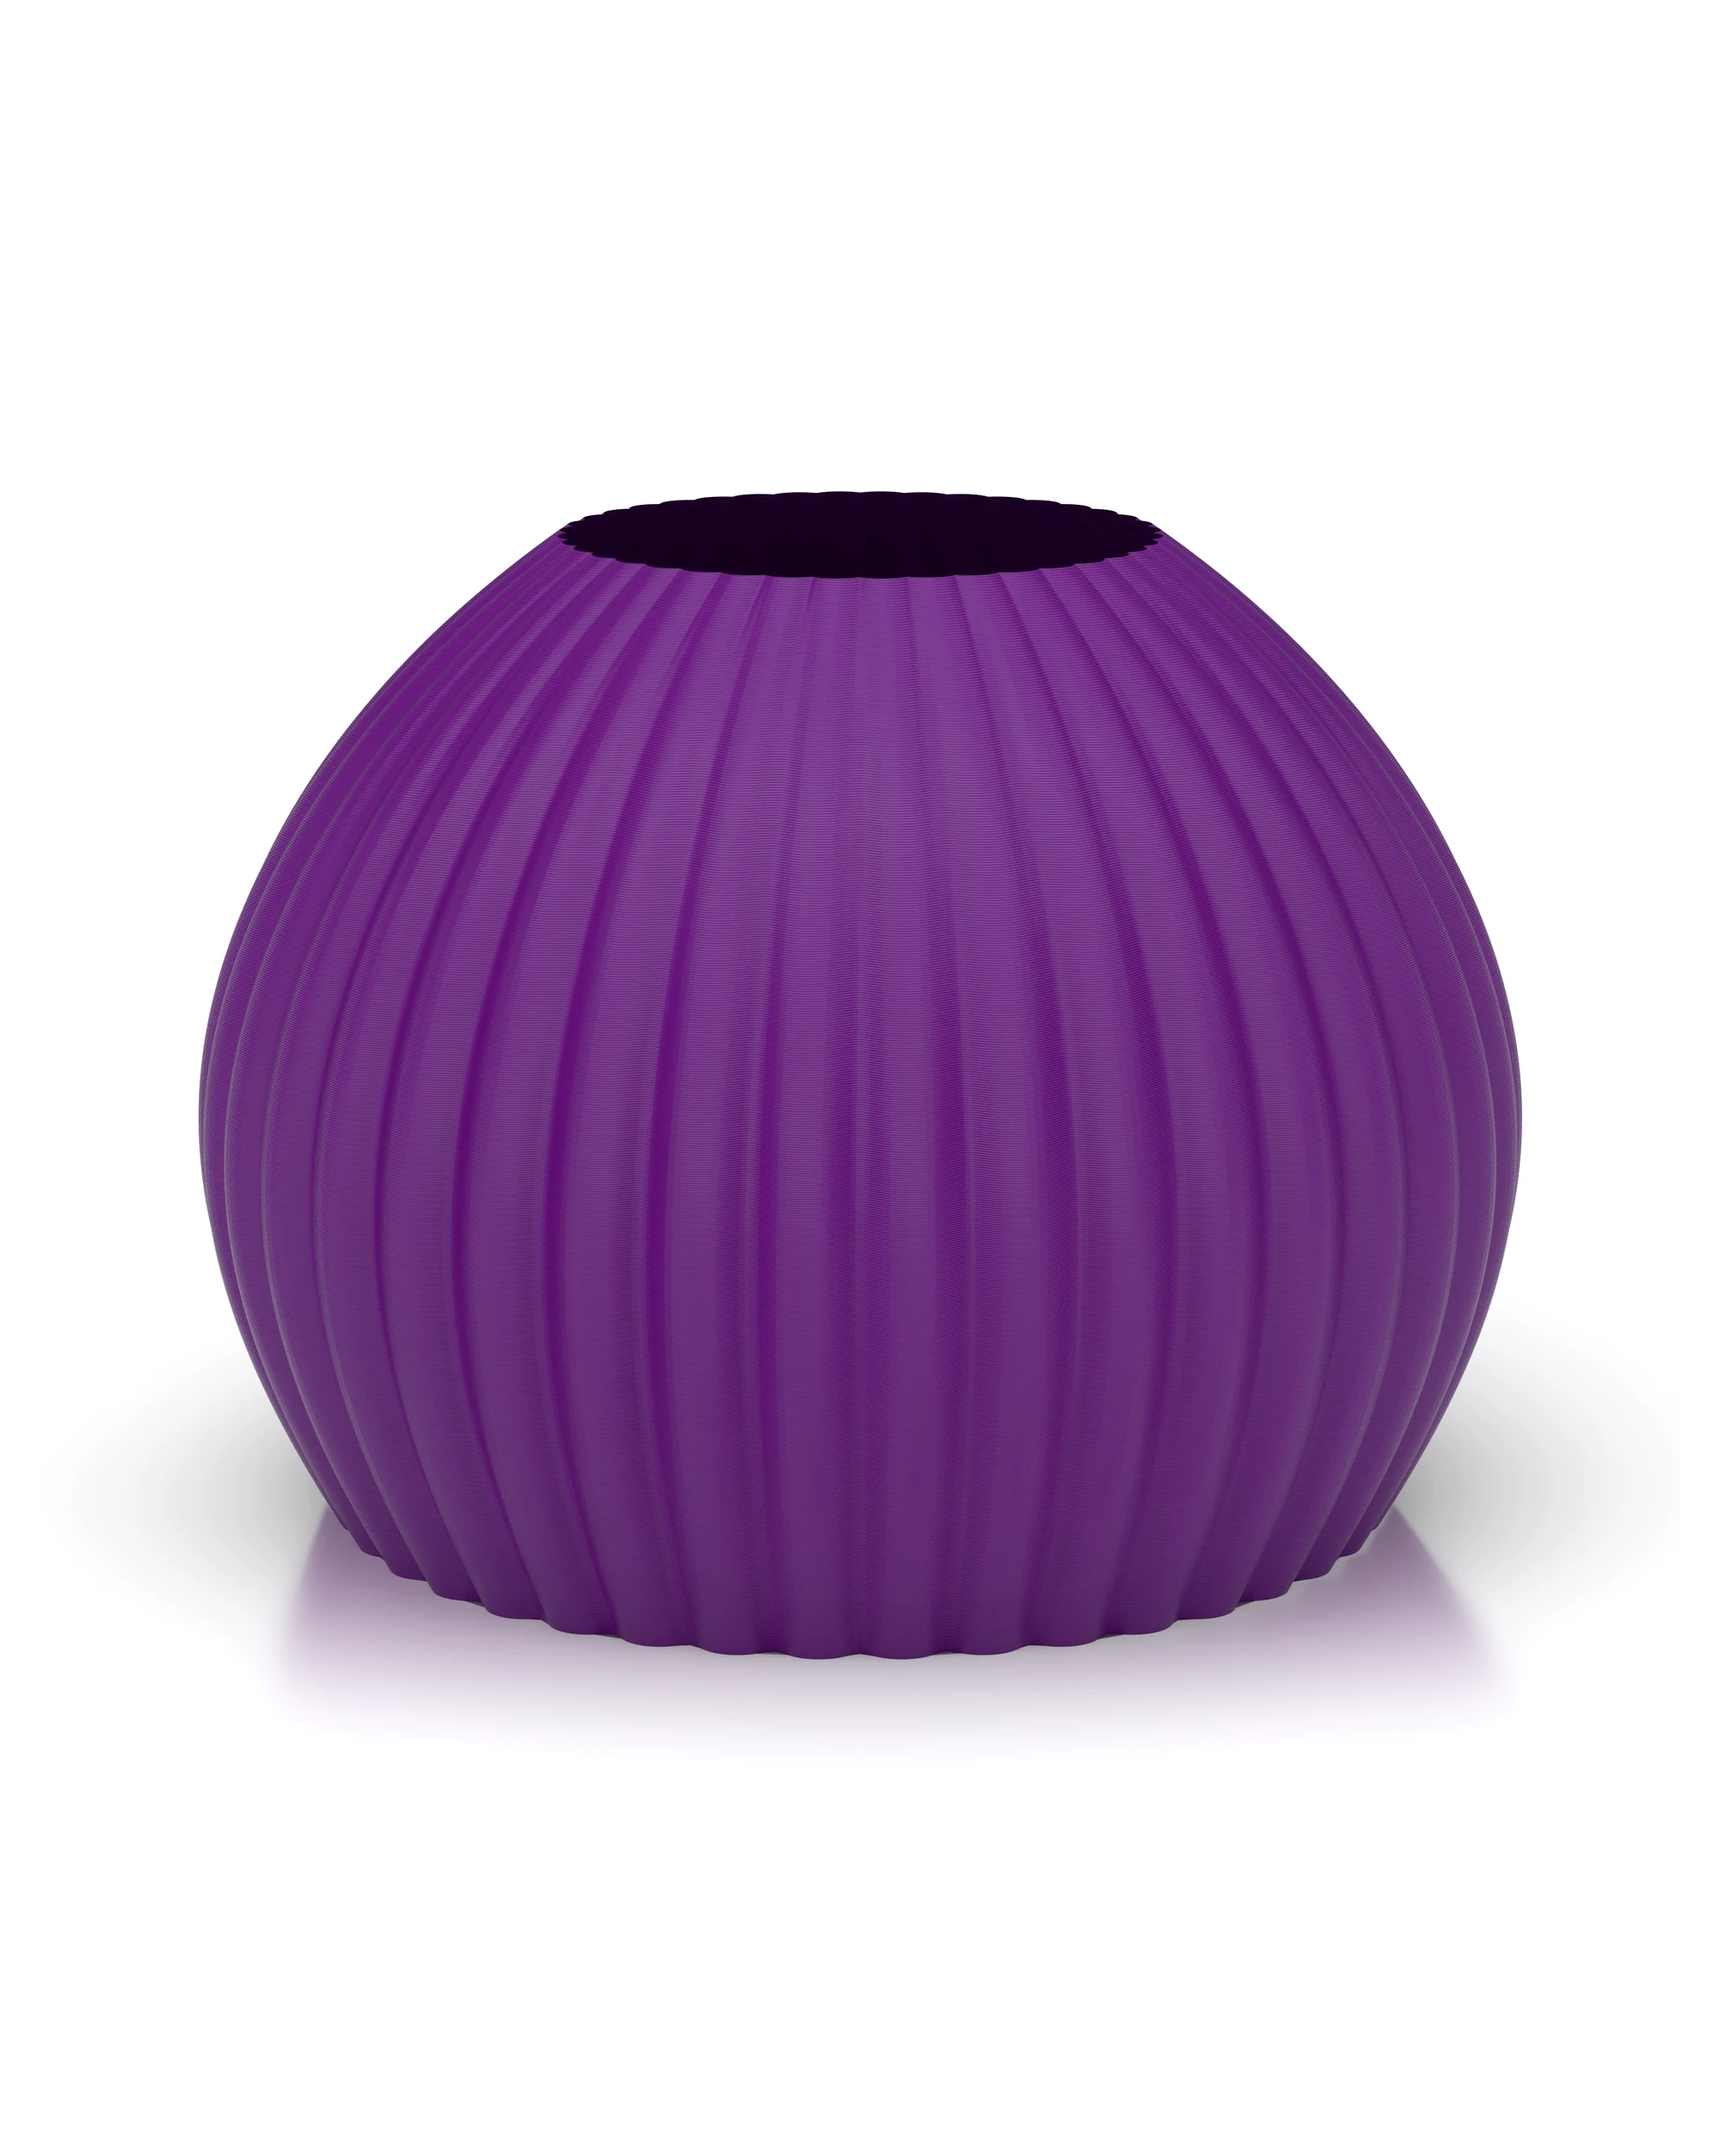
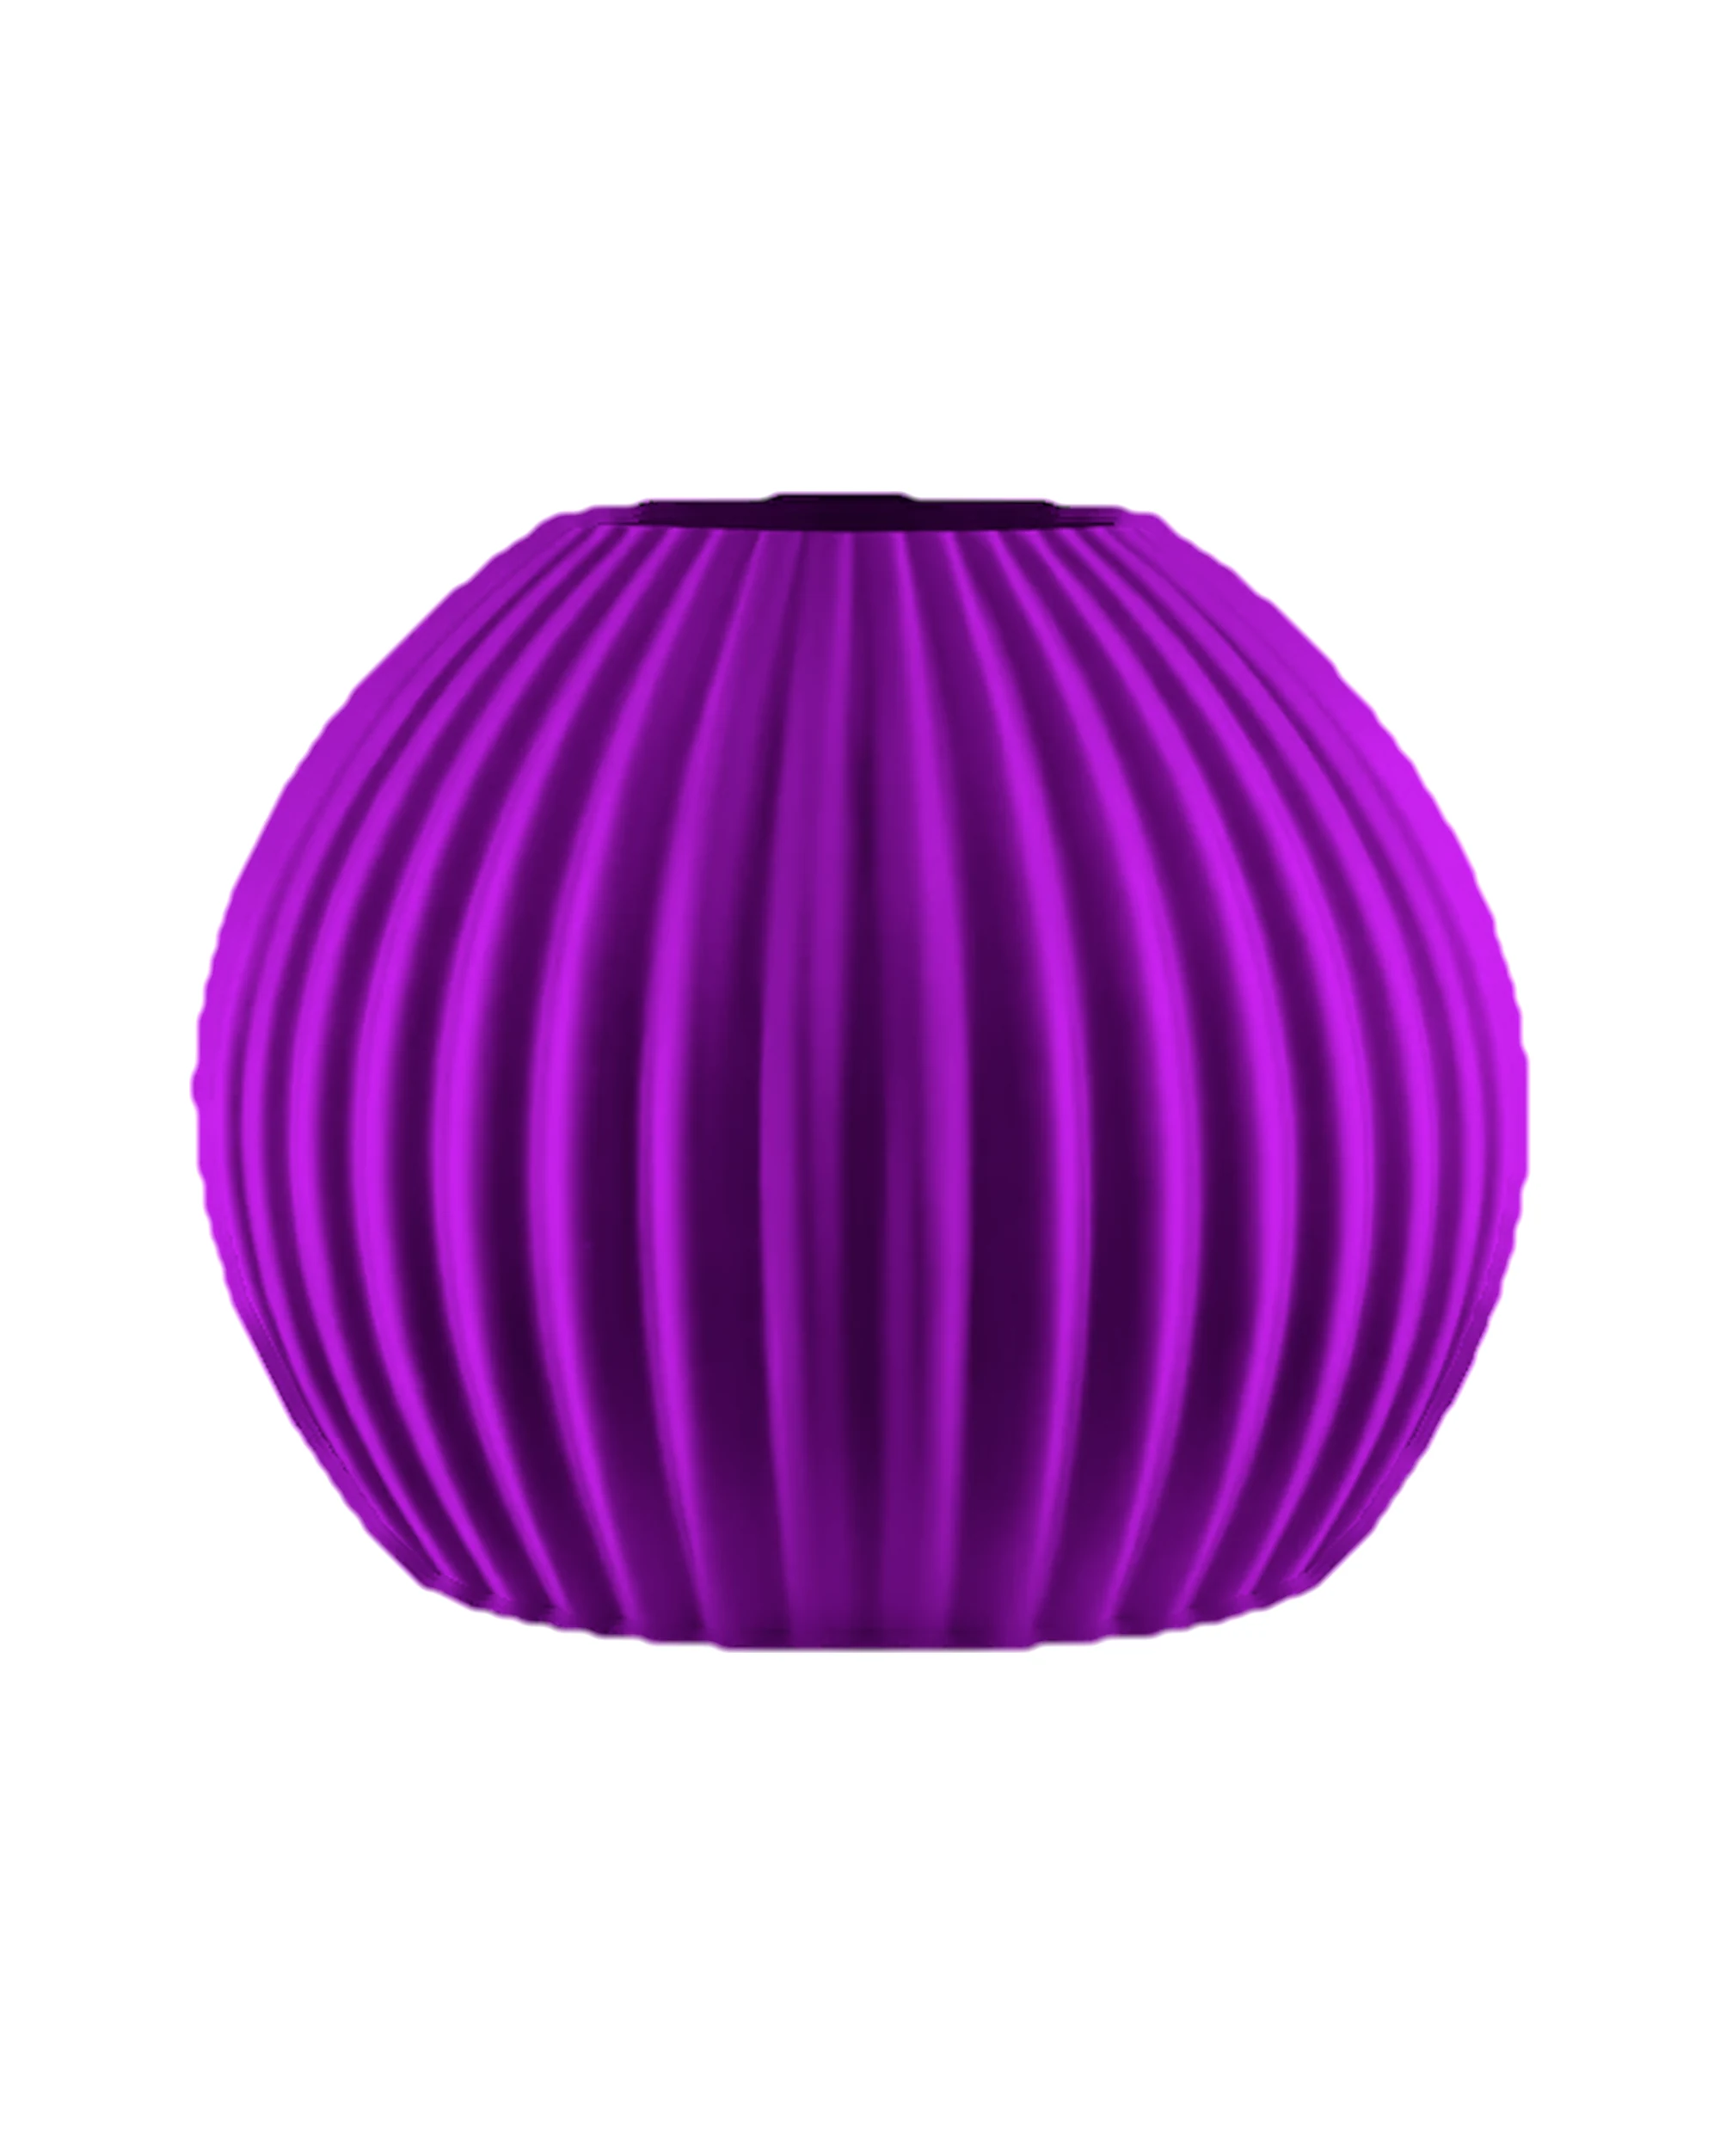
Bombato: immagini colori dalla foto originale ricolorata mantenendo il contrasto della foto, ombra di appoggio (13 colori, pagina prodotto)
Claude-Session: https://claude.ai/code/session_01MGUzPwoANoWLSiTiaRQqM2

diff --git a/prodotto-bombato.html b/prodotto-bombato.html
@@ -704,19 +704,19 @@
     /* Il render del vaso in ogni colore (sito, luce uguale per tutti). Compare nel
        riquadro solo quando si tocca il pallino: NON e' fra le miniature. */
     var COLORI = {
-      "#a3444d":"images/Bombato/colori/bombato-red-wine.webp?v=c5",
-      "#91535d":"images/Bombato/colori/bombato-bordeaux.webp?v=c5",
-      "#bcbfb0":"images/Bombato/colori/bombato-sage.webp?v=c5",
-      "#646666":"images/Bombato/colori/bombato-antracite.webp?v=c5",
-      "#d8d0cd":"images/Bombato/colori/bombato-off-white.webp?v=c5",
-      "#e7cac0":"images/Bombato/colori/bombato-rose.webp?v=c5",
-      "#346371":"images/Bombato/colori/bombato-emerald-green.webp?v=c5",
-      "#0095a1":"images/Bombato/colori/bombato-blu-lagoon.webp?v=c5",
-      "#6b1492":"images/Bombato/colori/bombato-viola.webp?v=c5",
-      "#dd1d76":"images/Bombato/colori/bombato-magenta.webp?v=c5",
-      "#fed003":"images/Bombato/colori/bombato-giallo.webp?v=c5",
-      "#00924f":"images/Bombato/colori/bombato-verde.webp?v=c5",
-      "#e0bf42":"images/Bombato/colori/bombato-golden.webp?v=c5"
+      "#a3444d":"images/Bombato/colori/bombato-red-wine.webp?v=c6",
+      "#91535d":"images/Bombato/colori/bombato-bordeaux.webp?v=c6",
+      "#bcbfb0":"images/Bombato/colori/bombato-sage.webp?v=c6",
+      "#646666":"images/Bombato/colori/bombato-antracite.webp?v=c6",
+      "#d8d0cd":"images/Bombato/colori/bombato-off-white.webp?v=c6",
+      "#e7cac0":"images/Bombato/colori/bombato-rose.webp?v=c6",
+      "#346371":"images/Bombato/colori/bombato-emerald-green.webp?v=c6",
+      "#0095a1":"images/Bombato/colori/bombato-blu-lagoon.webp?v=c6",
+      "#6b1492":"images/Bombato/colori/bombato-viola.webp?v=c6",
+      "#dd1d76":"images/Bombato/colori/bombato-magenta.webp?v=c6",
+      "#fed003":"images/Bombato/colori/bombato-giallo.webp?v=c6",
+      "#00924f":"images/Bombato/colori/bombato-verde.webp?v=c6",
+      "#e0bf42":"images/Bombato/colori/bombato-golden.webp?v=c6"
     };
 
     var stato = { vista:'foto', da:'foto', foto:0, color:'#a3444d', nomeColore:'Red Wine', modelloAvviato:false };
